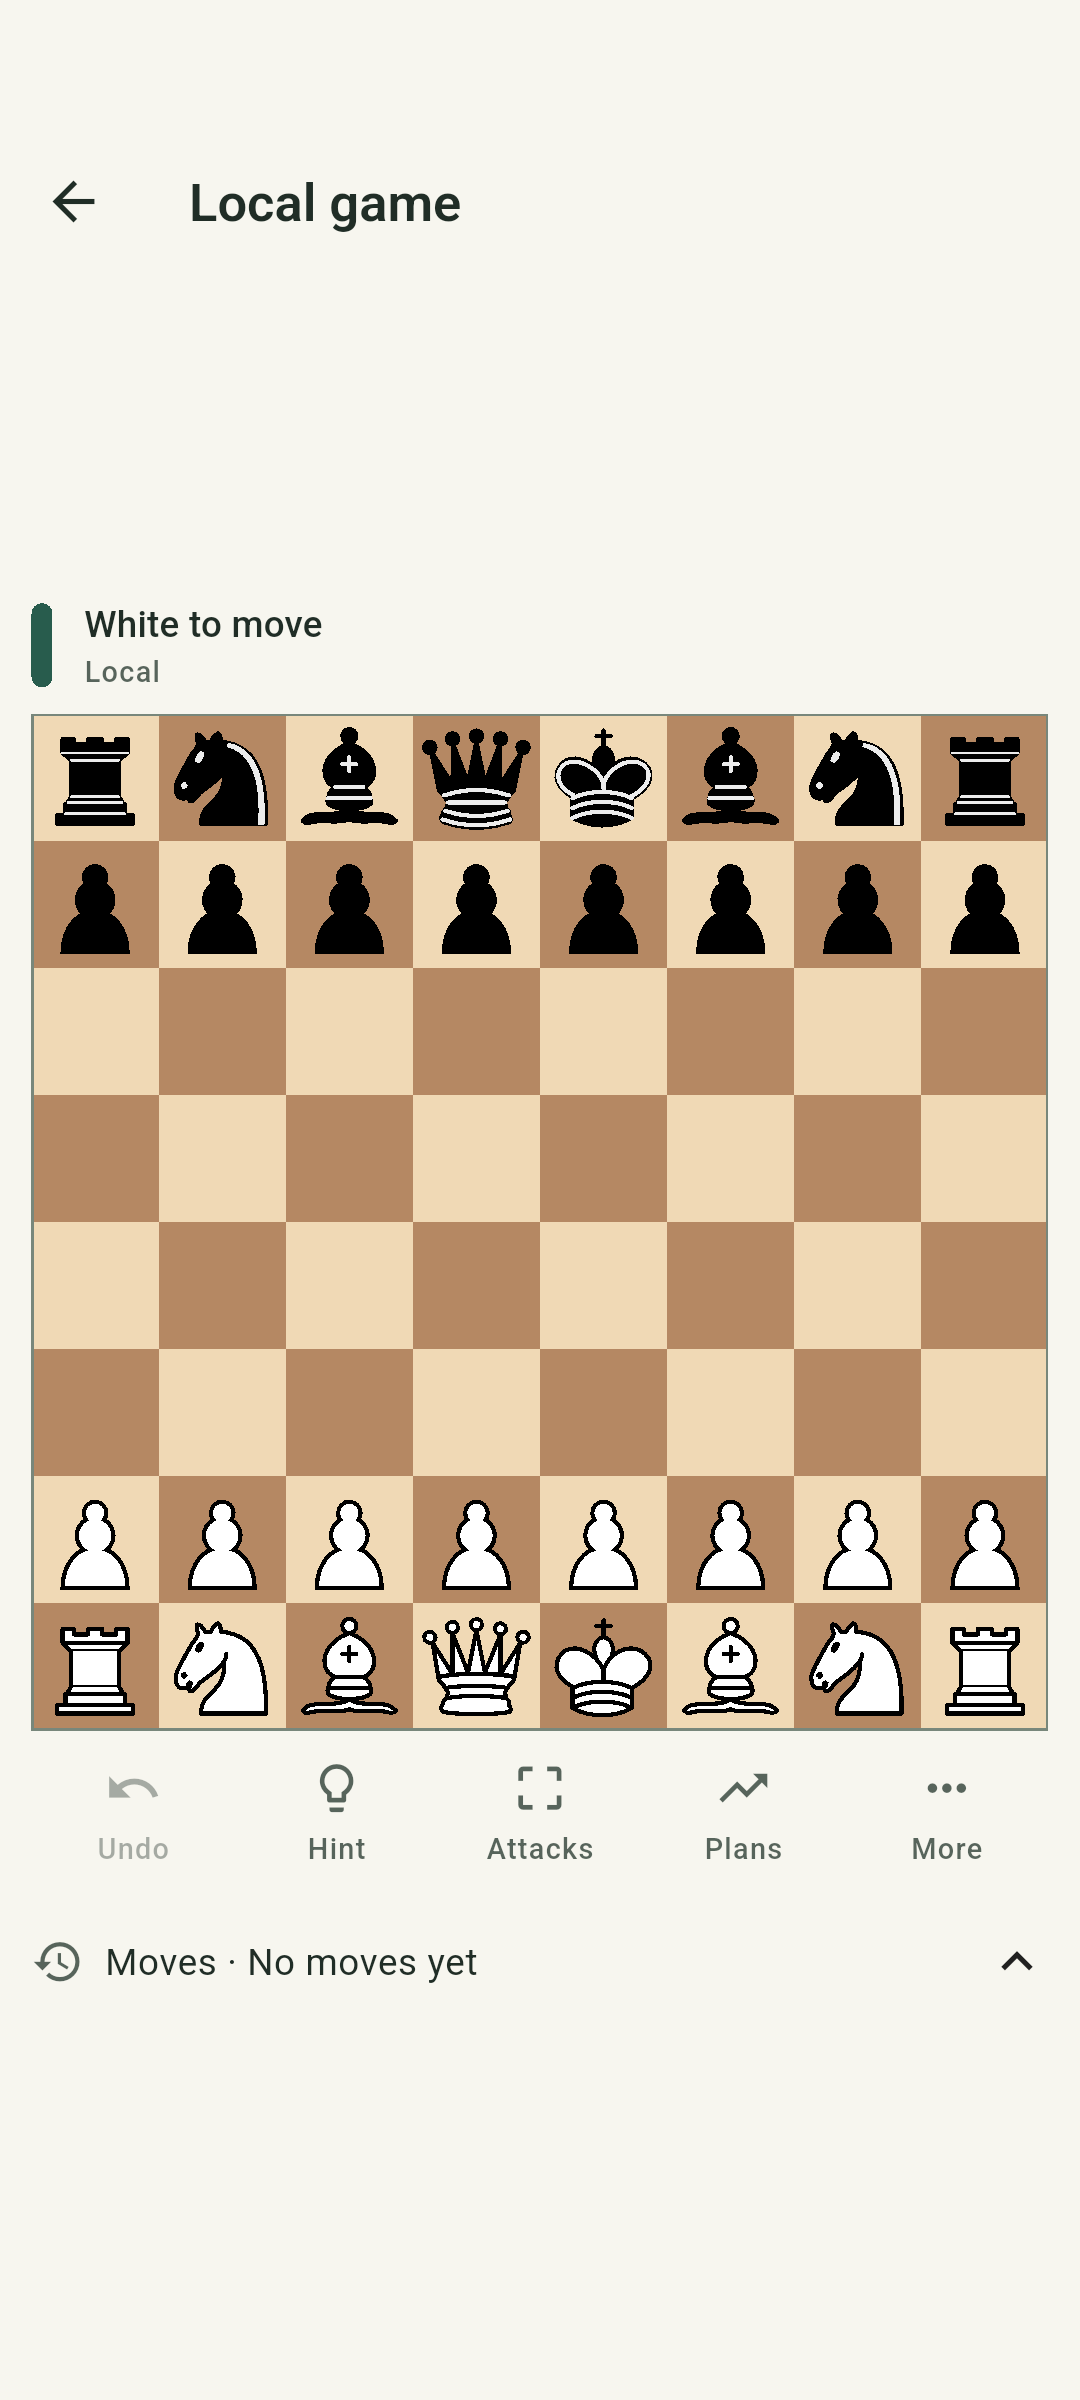
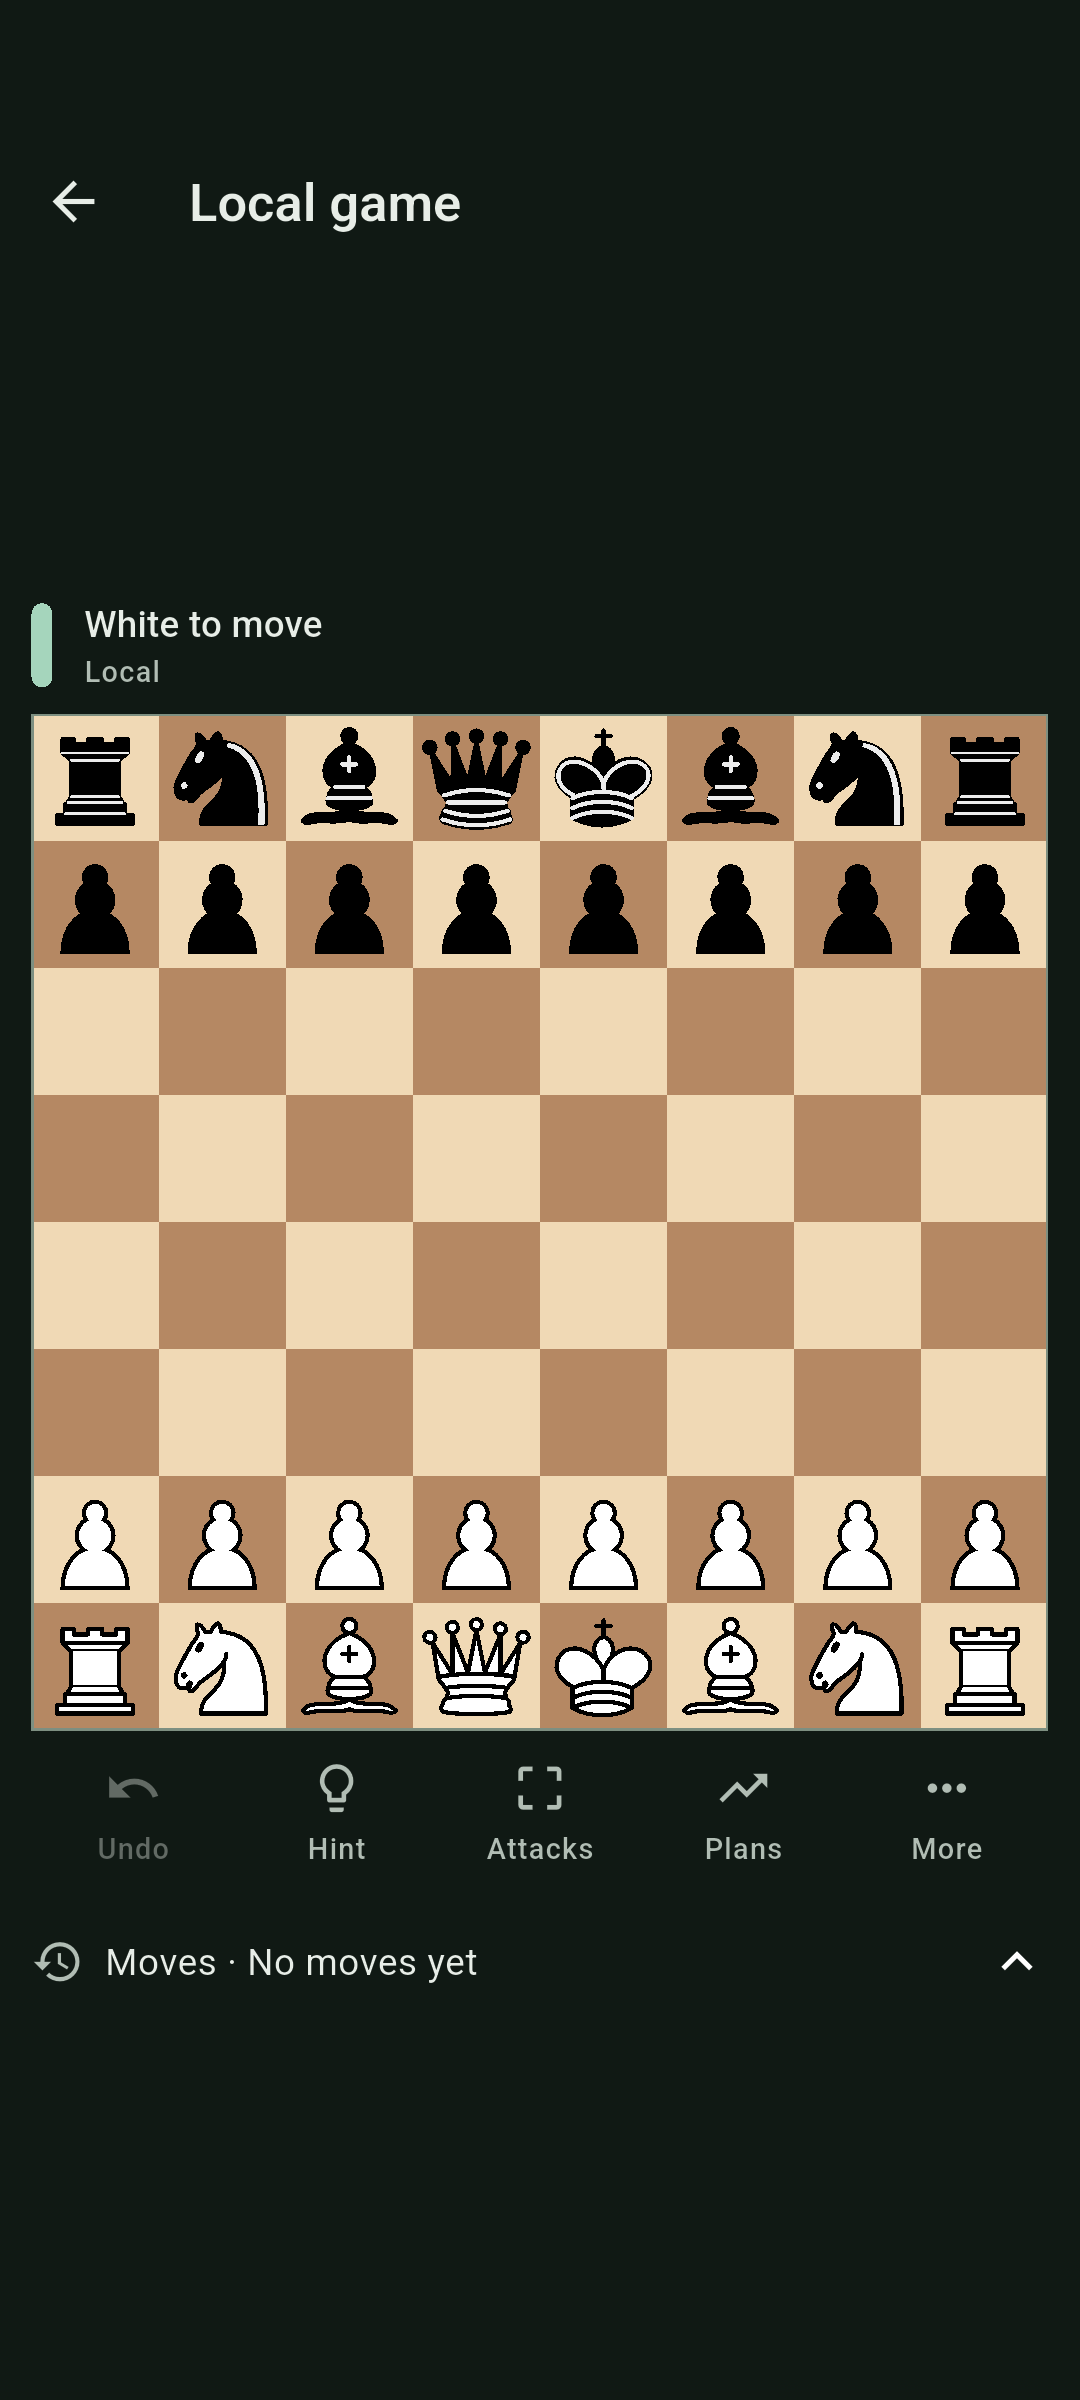
docs: refresh the Maia Chess guide and screenshots

diff --git a/README.md b/README.md
@@ -6,7 +6,8 @@
 
 **A human-style opponent, wherever you play.**
 
-Offline chess for Android. Sixteen Maia-3 levels, Stockfish game review, and a campaign to climb.
+Play offline against 16 human-style Maia-3 opponents, from 600 to 2600 Elo.
+Use Stockfish for hints, opponent plans, and post-game review.
 
 [![Android 7.0+](https://img.shields.io/badge/Android-7.0%2B-3DDC84?logo=android&logoColor=white)](#get-the-app)
 [![Works offline](https://img.shields.io/badge/Play-Offline-187B80)](#why-maia)
@@ -18,8 +19,7 @@ Offline chess for Android. Sixteen Maia-3 levels, Stockfish game review, and a c
 </div>
 
 Play a quick match against Maia, work your way through the campaign, or share a
-board with a friend. Your opponents, practice tools, and saved games run right
-on your phone. Open the app and play, even when you're offline.
+board with a friend on one Android device.
 
 ## Get the app
 
@@ -41,24 +41,19 @@ updated after verified changes to `main`, daily at 06:17 UTC, or by manual night
   <tr>
     <td align="center" width="33%"><strong>Play and practise</strong></td>
     <td align="center" width="33%"><strong>Climb the campaign</strong></td>
-    <td align="center" width="33%"><strong>Make it yours</strong></td>
+    <td align="center" width="33%"><strong>Review key moves and evaluations</strong></td>
   </tr>
   <tr>
-    <td align="center"><img src="docs/images/game.png" alt="Chessboard with move history and the practice toolbar" width="250"></td>
+    <td align="center"><img src="docs/images/game.png" alt="Local game with the chessboard, move history, and practice toolbar" width="250"></td>
     <td align="center"><img src="docs/images/campaign.png" alt="Maia campaign showing the first level and the path to higher opponents" width="250"></td>
-    <td align="center"><img src="docs/images/appearance.png" alt="Appearance settings with a board preview, app theme, and board colours" width="250"></td>
+    <td align="center"><img src="docs/images/review.png" alt="Stockfish review showing the evaluation graph and Black's forced mate after 2. g4" width="250"></td>
   </tr>
 </table>
 
 ## Why Maia?
 
-[Maia-3](https://github.com/CSSLab/maia3) learns from real human games to model
-how people play at different rating bands. This app runs the **Maia-3 79M** model on your phone, with 16 levels from
-**600 to 2600**. One shared model uses the selected Elo to predict human play.
-
-Maia is your opponent; **Stockfish** powers the hints and opponent-plan tools.
-Both run locally, so you can practise on the train, on a trip, or anywhere you
-want a game.
+Maia-3 learns from real human games. It uses the selected opponent rating to
+predict the moves a person at that level is likely to play. [Maia-3 project](https://github.com/CSSLab/maia3)
 
 | What you want to do | What Maia Chess offers |
 | --- | --- |
@@ -75,11 +70,11 @@ want a game.
 
 From the home screen, choose how you'd like to play:
 
-- **Free play against Maia:** pick your colour, select any level from 600 to
-  2600, and tap **Start game**.
-- **Maia campaign:** start with level 600. Win two games in a window of three
-  rated campaign games at a level to unlock the next opponent. Campaign games
-  disable hints, attacks, plans, and undo.
+- Choose **Free play against Maia-3**, pick your colour and an opponent from
+  600 to 2600, then tap **Start game**.
+- **Maia-3 campaign** starts at level 600. Win twice within a rolling window
+  of up to three rated campaign games at the same level to unlock the next
+  opponent. Campaign games disable hints, attacks, plans, and undo.
 - **Play (2 local players):** share the phone with a friend and take turns on
   the same board.
 
@@ -91,14 +86,16 @@ set **Minutes per player** and **Increment in seconds** (0–180 each). The
 increment is added after every legal move. With zero minutes, each player
 starts with one increment; a clock cannot have both values set to zero.
 
-Both clocks appear above the board, with the active side highlighted. Running
-out of time ends the game; it is a draw if the opponent has insufficient mating
-material. Clocks pause when you leave the game, open appearance settings, or
+Both clocks appear near the board and highlight the active side. In the wide
+landscape layout, they sit beside the board. Running out of time ends the game
+in a draw if the opponent has insufficient mating material, and in a loss
+otherwise. Clocks pause when you leave the game, open appearance settings, or
 background the app, and resume with the saved balances. Restart and rematch
 keep the time control. Undo retains the remaining time without a refund.
 
-Your ongoing game saves automatically after each move. When you come back,
-tap **Continue saved game** to pick up where you left off.
+The app keeps one ongoing game and saves it automatically after each move.
+Tap **Continue saved game** to pick up where you left off. Starting a new game
+replaces the autosave after you confirm.
 
 **More → Resign** ends the game after confirmation. Against Maia-3, you can
 resign on either turn; in local play, the side to move resigns. The result stays
@@ -154,7 +151,7 @@ Cburnett pieces. Your settings also carry over to game replays.
 The board works in portrait and landscape, supports tap and drag controls,
 and includes square labels and accessibility announcements. The screen stays
 awake while you play. Reduced-motion preferences, larger text, and Android
-back navigation are respected throughout the redesigned screens.
+back navigation are supported.
 
 Your games, settings, statistics, and campaign progress are stored on your
 device. You can play without an account or an internet connection and take
@@ -177,9 +174,11 @@ your games with you using PGN export.
 
 ## Build from source
 
-Made with **Flutter and Dart**, with **ONNX Runtime** running Maia-3 and **Stockfish**
-providing assistance. **Riverpod** manages app state and **Drift/SQLite** stores
-your games locally.
+Maia Chess is built with **Flutter and Dart**. **ONNX Runtime** runs one
+bundled **Maia-3 79M** model in a Dart isolate for all opponent levels.
+**Stockfish** loads on demand for assistance and review. **Riverpod** manages
+app state, and **Drift/SQLite** stores games locally, saving move history
+incrementally and loading moves only when a game is opened from the library.
 
 <details>
 <summary><strong>Developer setup and build commands</strong></summary>
@@ -224,9 +223,10 @@ dart run tool/verify_apk.dart build/app/outputs/flutter-apk/app-arm64-v8a-releas
 ```
 
 The APK is written to `build/app/outputs/flutter-apk/app-arm64-v8a-release.apk`.
-Configure `android/app/key.properties` for release signing; local builds use
-the debug key when that file is absent. See [Android releases](docs/android-releases.md)
-for signing, checks, versioning, and publication.
+Configure `android/app/key.properties` for release signing. Local builds use
+the debug key when that file is absent. CI publishes stable and nightly builds
+after native acceptance on an Android emulator and verification of the signed
+ARM64 APK. [Android releases](docs/android-releases.md)
 
 Run Android builds and integration tests sequentially. After integration tests,
 use the normal build command to refresh plugin registration.
